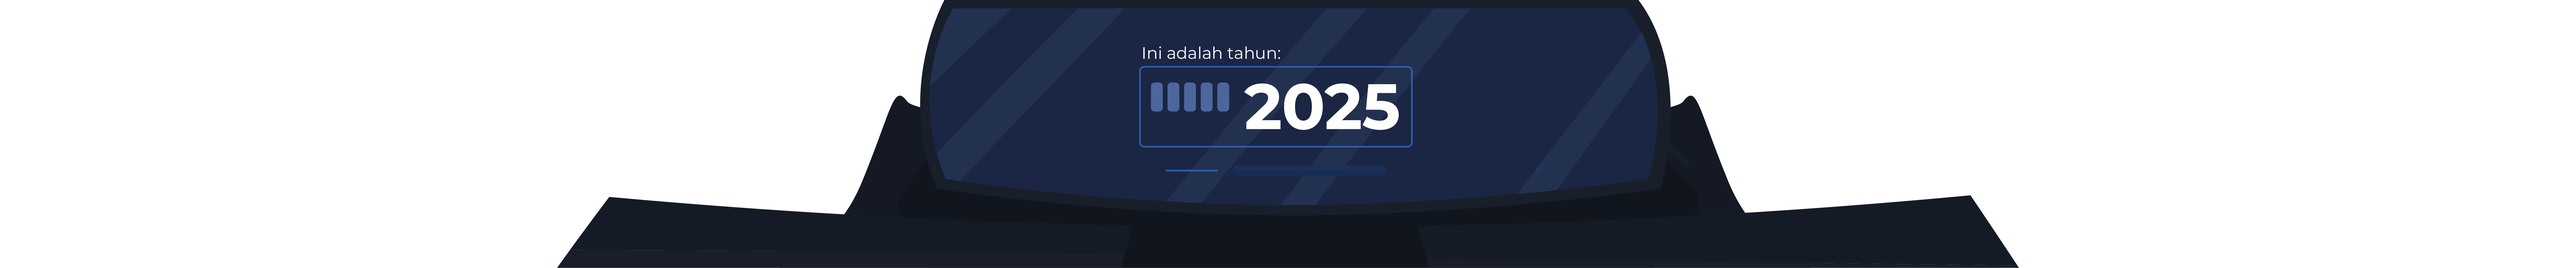
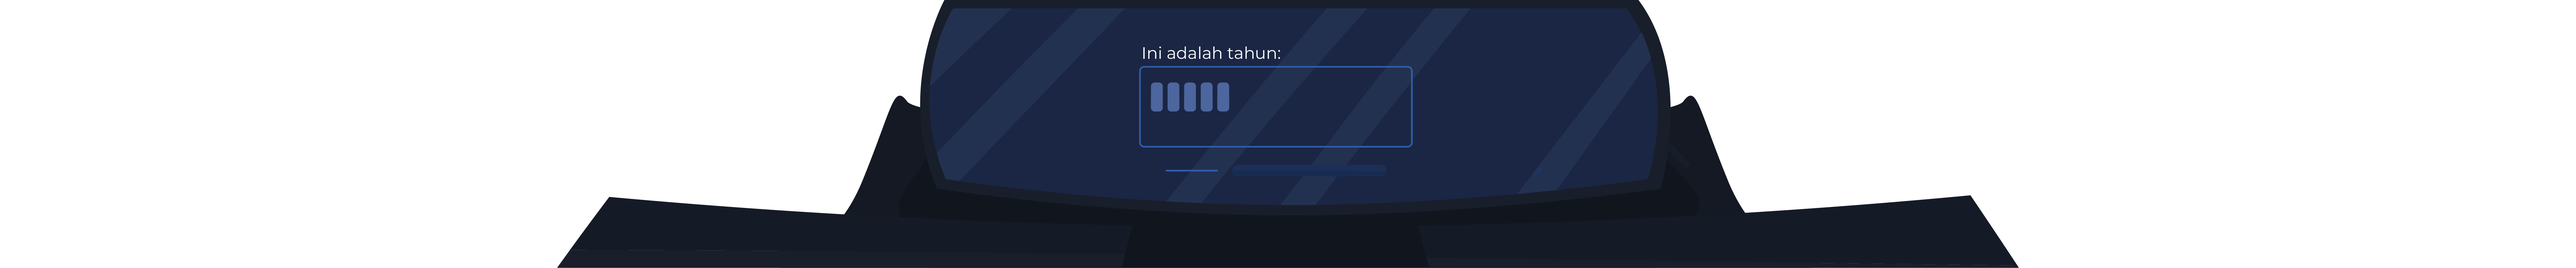
adjust bottom dashboard

Changed region(s): [[0.4688, 0.3118, 0.5625, 0.4988]]

diff --git a/css/bottom-dashboard.css b/css/bottom-dashboard.css
@@ -1,4 +1,5 @@
-@import url("https://fonts.googleapis.com/css?family=Orbitron");
+/* @import url("https://fonts.googleapis.com/css?family=Montserrat"); */
+@import url('https://fonts.googleapis.com/css2?family=Montserrat:ital,wght@0,100;0,200;0,300;0,400;0,500;0,600;0,700;0,800;0,900;1,100;1,200;1,300;1,400;1,500;1,600;1,700;1,800;1,900&display=swap');
 
 
 #bottom-dashboard {
@@ -23,18 +24,20 @@
 #bottom-dashboard-text {
     position: absolute;
     width: 100vw;
-    font-family: 'Orbitron';
+    font-family: 'Montserrat';
     display: inline-block;
     text-align: center;
+    font-weight: 900;
+    font-size: 1.7em;
     color: white;
-    bottom: 0px;
-    top: 2rem;
-    left: 0px;
+    /* bottom: 80%; */
+    top: 0.2rem;
+    left: 1rem;
   }
 
 #back-button {
-    height: 5%;
-    width: 5%;
+    height: 4%;
+    width: 4%;
     position: absolute;
     bottom: 80%;
     left: 38%;
@@ -43,10 +46,10 @@
 }
 
 #next-button {
-    height: 5%;
-    width: 5%;
+    height: 6%;
+    width: 6%;
     position: absolute;
-    bottom: 80%;
+    bottom: 85%;
     left: 56.5%;
     display: inline-block;
     margin: 0 auto;
@@ -59,29 +62,29 @@
 } */
 
 #back-button:hover {
-  width: 6%;
-  height: 6%;
+  width: 5%;
+  height: 5%;
   cursor: pointer;
   display: inline-block;
 }
 
 #next-button:hover {
-  width: 6%;
-  height: 6%;
+  width: 7%;
+  height: 7%;
   cursor: pointer;
   display: inline-block;
 }
 
 #back-button:active {
-  width: 5%;
-  height: 5%;
+  width: 4%;
+  height: 4%;
   cursor: pointer;
   display: inline-block;
 }
 
 #next-button:active {
-  width: 5%;
-  height: 5%;
+  width: 6%;
+  height: 6%;
   cursor: pointer;
   display: inline-block;
 }

diff --git a/2033-perubahan-iklim.html b/2033-perubahan-iklim.html
@@ -27,7 +27,7 @@
 
 <body>
   <div id="pinContainer">
-    <div id="slideContainer">
+    <div id="slideContainer" style="background-image: url(./bg/Monas.gif);">
       
       <section id="sectionOne" class="panel">
         <b></b>
@@ -69,13 +69,14 @@
   </div>
   <div id="bottom-dashboard">
     <img id="bottom-dashboard-img" src="images/Dashboard Mesin Waktu Update 2.png" />
-    <div id="bottom-dashboard-text">
-    <!-- <h3>2045</h3>				 -->
-  </div>
-
+    
+  <div id="bottom-dashboard-text">
+    <h3>2033</h3>				
+    </div>
   <a id="back-button" class="btn-floating" href="www.google.com">
     <img src="images/BackButton.svg" />
     </a>
+    
   <a id="next-button" class="btn-floating" href="www.google.com">
     <img src="images/NextButton.svg" />
     </a>

diff --git a/vertical-style.css b/vertical-style.css
@@ -1,4 +1,5 @@
-@import url("https://fonts.googleapis.com/css?family=Montserrat");
+/* @import url("https://fonts.googleapis.com/css?family=Montserrat"); */
+@import url('https://fonts.googleapis.com/css2?family=Montserrat:ital,wght@0,100;0,200;0,300;0,400;0,500;0,600;0,700;0,800;0,900;1,100;1,200;1,300;1,400;1,500;1,600;1,700;1,800;1,900&display=swap');
 * {
     margin: 0;
     padding: 0;
@@ -8,7 +9,6 @@
   margin: 0;
   font-family: sans-serif;
   position: relative;
-  height: 100vh;
   width: 100vw;
 }
 
@@ -25,7 +25,7 @@ h1 {
     justify-content: center;
     align-items: center;
     text-align: center;
-    height: 100vh
+    width: 100vw;
 }
 .parallax img {
     position: absolute;

diff --git a/horizontal-style.css b/horizontal-style.css
@@ -1,4 +1,5 @@
-@import url("https://fonts.googleapis.com/css?family=Montserrat");
+/* @import url("https://fonts.googleapis.com/css?family=Montserrat"); */
+@import url('https://fonts.googleapis.com/css2?family=Montserrat:ital,wght@0,100;0,200;0,300;0,400;0,500;0,600;0,700;0,800;0,900;1,100;1,200;1,300;1,400;1,500;1,600;1,700;1,800;1,900&display=swap');
 html,
 body {
   width: 100%;
@@ -16,7 +17,7 @@ body {
   width: 200%;
   /* to contain 4 panels, each with 100% of window width */
   height: 100vh;
-  background-image: url("./bg/Monas.gif");
+  
   background-size: contain;
   background-repeat: no-repeat;
   /* background-position: center center; */
